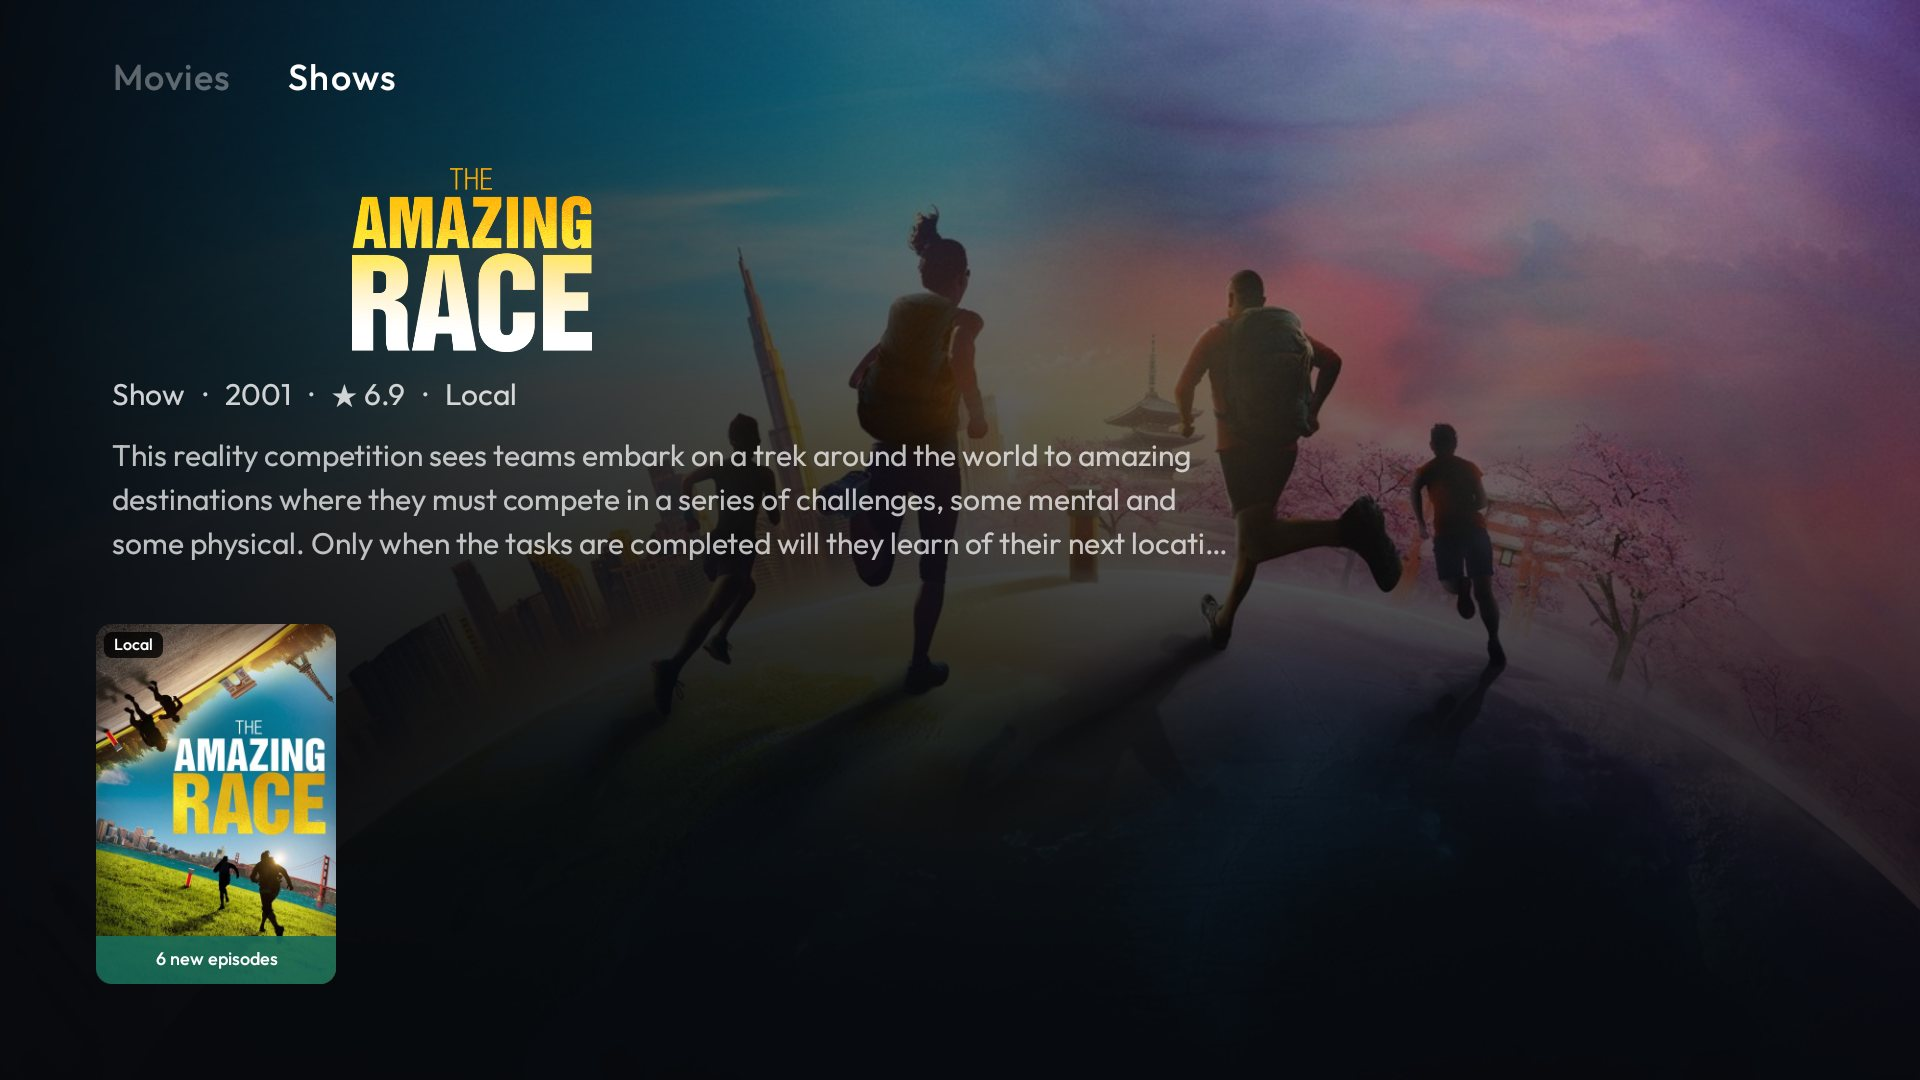
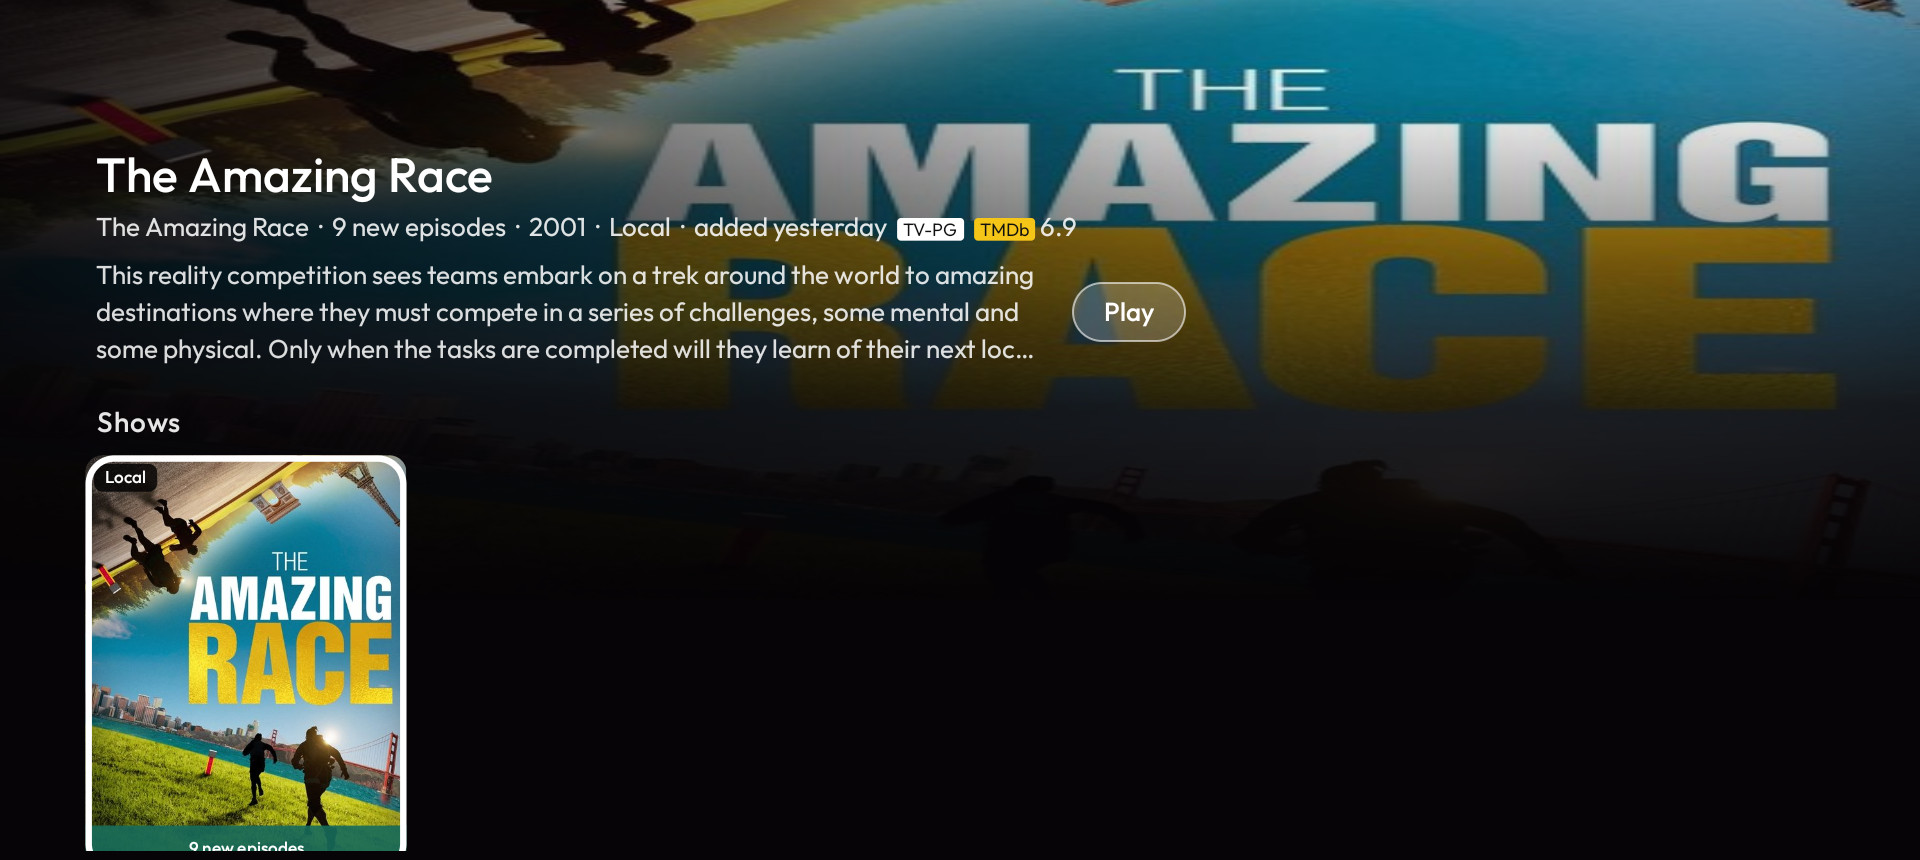
README: refresh MyTV dashboard and navigation

diff --git a/README.md b/README.md
@@ -11,18 +11,21 @@ nothing here is meant for upstream. The original project's README is kept for re
 ## What I added on top of upstream
 
 - **Cinematic Dashboard**: a full-screen TMDB backdrop with title, overview, year, runtime, US age rating and a
-  yellow `TMDb` score badge. The Recently Added movie rail sits below the showcase.
+  yellow `TMDb` score badge. A focusable **Play** pill opens the presented title, while the only row below the
+  spotlight is the configured priority-app dock.
 - **Shows**: a separate rail and show-detail screen with the show's artwork, overview, seasons and episode cards.
   Selecting Shows focuses its first card and pauses the movie spotlight.
-- **Auto-rotating movie spotlight**: it cross-fades every 10 seconds while Movies is idle. Entering Movies clears
-  focus so rotation runs; the next navigation key focuses the first movie. A focused movie also clears after 10
-  seconds of no D-pad activity.
-- **Drawer navigation**: Back or the rail's left edge opens Dashboard, TV, Movies, Shows, Apps, Beast, Home
-  Assist and Settings. The drawer highlights the current section and physical Home always returns to Dashboard.
+- **Auto-rotating movie spotlight**: Dashboard keeps the priority-app focus in place while the spotlight
+  cross-fades every 10 seconds. If the Play pill is focused instead, focus returns to the first priority app after
+  10 seconds. Movies is a separate poster rail with its own 10-second focus timeout.
+- **Drawer navigation**: Back or the rail's left edge opens Dashboard, TV, Movies, Shows, Apps, Home Assist and
+  Settings. The drawer highlights the current section and physical Home always returns to Dashboard.
 - **Apps page**: a standalone catalogue using the launcher's original TV banner tiles, app order, focus scale and
-  animation. It keeps the same left drawer and never changes the launcher app order.
-- **Beast and Home Assist**: both open from the drawer through the existing guarded WebView. The old Beast,
-  Home Assistant and Settings top pills are hidden.
+  animation. Pressing Down from the Dashboard priority dock fades into this same catalogue; Up from its first row
+  or Back restores the priority-app focus left behind. The drawer opens the same catalogue and keeps its existing
+  drawer return behavior.
+- **Home Assist**: opens from the drawer through the guarded WebView. The launcher no longer exposes a Mediarium
+  web panel or polls Home Assistant for camera/motion alerts.
 - **Series freshness**: a show moves up using its newest downloaded episode file's modification time, rather
   than the older date at which the series was first added.
 - **Weather widget** in place of the date next to the clock: current temperature, a condition icon and today's
@@ -32,19 +35,13 @@ nothing here is meant for upstream. The original project's README is kept for re
 ## What is Mediarium (Beast)?
 
 "Beast" is my nickname for **[Mediarium](https://mediarium.app/)**, the self-hosted media server running on my
-home network. It is the source behind the Dashboard rails and the Beast drawer destination, and nothing in it
-leaves the LAN.
-
-![Mediarium Dashboard: server CPU, memory and storage, and download status](docs/screenshots/beast-dashboard.jpg)
+home network. It is still the source behind the Dashboard's Local movies and Shows, but it has no TV-facing
+drawer destination or web panel. Nothing in it leaves the LAN.
 
 What it does:
 
 - **Keeps a download library.** Mediarium manages a library of downloaded movies and shows and serves the files
   over my home network. The launcher reads that library for the "Local" titles in the rail and plays them in mpv.
-- **Has its own web panel.** Mediarium runs a web dashboard (search, add, and manage downloads) on a port on the
-  server. The launcher's **Beast drawer item** opens that real panel full-screen in a locked-down WebView, so I can
-  drive it from the couch with the remote. The WebView only ever loads that one address; links to anywhere else
-  are refused, so it can't wander onto the open internet.
 - **Feeds the rail alongside IPTV.** The Movies & Shows rail merges Mediarium's downloads with the newest movies
   from my IPTV provider (read over its Xtream Codes API). When the same title exists in both, the download wins.
   TMDB fills in the wide backdrops, logos, ratings and overviews.
@@ -53,55 +50,45 @@ How the pieces fit:
 
 | Piece | Role |
 |-------|------|
-| Mediarium server ("Beast") | Self-hosted on the LAN: the download library, the file server, and the web panel |
-| Beast drawer item | Opens the Mediarium web panel full-screen in a guarded WebView |
+| Mediarium server ("Beast") | Self-hosted on the LAN: the download library and file server |
 | Dashboard rails | Mediarium downloads (mpv) + IPTV newest movies (Just Player), deduped, art from TMDB |
 | Apps page | Original CleanYourTV banner tiles in a standalone catalogue |
 
-A tour of the panel:
-
-![Mediarium Discover: filter bar and a Plex watchlist rail with Downloaded badges](docs/screenshots/beast-discover.jpg)
-
-*Discover* — browse and filter movies, shows and books (by genre, year, popularity), with "hide owned" and a
-Plex watchlist rail.
-
-![Mediarium Library: Movies/TV/Ebooks tabs with rich filters and download-status chips](docs/screenshots/beast-library.jpg)
-
-*Library* — everything already in the collection, filtered by codec, HDR, resolution, audio, subtitles and more,
-with per-status counts.
-
-![Mediarium Upcoming: a release calendar for the month](docs/screenshots/beast-upcoming.jpg)
-
-*Upcoming* — a release calendar (month, posters, backdrops or agenda) for titles on the way.
-
-![Mediarium Activity: download status tiles and a "waiting for a release" card](docs/screenshots/beast-activity.jpg)
-
-*Activity* — what is downloading, waiting, or finished, and why a title is still pending.
-
 The server addresses, the IPTV login and the TMDB key are **not** in this repo: they live in git-ignored
 `*_secrets.xml` files that a fresh clone recreates locally. See
-[`mytv/README.md`](mytv/README.md#secrets-files-git-ignored-recreate-on-a-new-pc) for the exact files and the
-[Beast page notes](mytv/README.md#beast-page-all-rooms) for how the panel behaves on the remote.
+[`mytv/README.md`](mytv/README.md#secrets-files-git-ignored-recreate-on-a-new-pc) for the exact files.
 
 ### Dashboard, Shows and the Apps page
 
-![Explore, Movies tab: a full-screen backdrop with the title logo, rating and overview over a poster rail](docs/screenshots/explore.jpg)
+![Movies: a full-screen backdrop with title, rating, overview and a poster rail](docs/screenshots/explore.jpg)
 
 The side drawer replaces the old Home / Explore tabs:
 
-- **Dashboard / Movies** uses the newest Local and IPTV movies. It enters unfocused so the large backdrop rotates
-  every 10 seconds; the first navigation key focuses the first card. A movie focus clears after 10 seconds idle.
+- **Dashboard** rotates the newest Local and IPTV movie spotlight over the full-screen backdrop while the
+  configured priority apps stay in the bottom dock. App focus does not pause or affect the spotlight. Up from the
+  apps focuses the **Play** pill, which opens the current title; if Play stays focused for 10 seconds, focus returns
+  to the first priority app. Down from an app fades into the full Apps catalogue. Up from its first row or Back
+  restores the priority app where the transition began.
+- **Movies** is separate from Dashboard and keeps the Recently Added poster rail. It enters with the first card
+  focused. After 10 seconds of inactivity, focus clears and the spotlight resumes rotating; the next D-pad key
+  restores movie focus.
 - **Shows** uses downloaded series and focuses the first card after the rail switch. It pauses the movie rotation.
   OK opens the show's season/episode page; Back returns to the previous screen.
 - **Apps** opens a separate catalogue rendered with the original launcher `AppAdapter` tiles and banner artwork.
   Its ordering is the launcher's configured ordering, not a new app sort.
+- **Home Assist** opens the configured Home Assistant dashboard. The launcher does not monitor cameras or show
+  motion alerts.
 - The full-screen backdrop, episode title, show title, year, runtime, age rating, `TMDb` score and overview follow
   the focused item.
 - **Age ratings** come from TMDB's US listing and appear next to the year, both here and on the Home showcase.
   Movies show their certificate (PG-13, R and so on) and series show their TV rating (TV-14, TV-MA and so on). A title with no US release on TMDB shows no age rating, so an unreleased film stays
   blank until TMDB lists one.
 
-![Explore, Shows tab: The Amazing Race backdrop with its logo over a rail of series](docs/screenshots/explore-shows.jpg)
+![Shows: The Amazing Race backdrop with a focused series rail](docs/screenshots/explore-shows.jpg)
+
+The same banner tiles appear in the full Apps catalogue:
+
+![All Apps catalogue reached with Down from the Dashboard priority row](docs/screenshots/apps.jpg)
 
 Focusing a show opens its episodes in order as wide stills, each with its own TMDB name and overview:
 
@@ -121,7 +108,9 @@ as applied.
 
 ## Common tasks
 
-Run from the repo root in PowerShell. The TV needs USB debugging and Network debugging switched on.
+Run from the repo root in PowerShell. The TV needs network ADB enabled. If it only offers Wireless debugging,
+pair with platform-tools `adb` and use the connection endpoint shown in Developer options; see the
+[native ADB guide](tools/native-adb.md).
 
 | To | Run |
 |----|-----|
@@ -142,8 +131,8 @@ the launcher's on every build, so the launcher's copy always shows the last room
 2. Back it up first with `backup.ps1`. Check `dumpsys wifi | grep -o 'cname=[^ ]*'` before disabling the setup
    wizard: if it owns the saved Wi-Fi network, disabling it drops the TV off Wi-Fi.
 3. Copy the office `config.xml` into the new room's folder and change what the hardware needs (a streaming box
-   has no Live TV app or HDMI inputs). The main navigation is now in the side drawer, so the old Home Assist,
-   Beast and Settings top pills stay hidden. Keep `weather_widget`, `explore_page` and `media_rail` on.
+   has no Live TV app or HDMI inputs). The main navigation is now in the side drawer, without TV-facing
+   Mediarium or camera-alert controls. Keep `weather_widget`, `explore_page` and `media_rail` on.
 4. Disable the debloat batches one at a time with a screenshot between them, setup wizard last.
 5. Install mpv and Just Player if the room uses the rail, then run `build-and-install.ps1`.
 6. Push the theme, reboot once, and compare `pm list packages -d` before and after.
@@ -151,15 +140,15 @@ the launcher's on every build, so the launcher's copy always shows the last room
 ## Build
 
 JDK 17 and the Android SDK are set up by `mytv\toolchain.ps1` into `%LOCALAPPDATA%\cleanyourtv-toolchain`. The
-release APK must stay under 786,432 bytes (the repo's size gate); the current build is about 644 KB.
+release APK must stay under 786,432 bytes (768 KiB); the current local build is about 640 KiB.
 
 ## Not in this repo
 
 These stay on my PC on purpose, so a fresh clone will not build the rail until they are recreated:
 
-- `launcher\app\src\main\res\values\iptv_secrets.xml`, `beast_secrets.xml`, `tmdb_secrets.xml`, `ha_secrets.xml`: the IPTV
-  login, the Beast server addresses and API key, the TMDB API key, and the Home Assistant token. The exact files and what each value means
-  are in [`mytv/README.md`](mytv/README.md#secrets-files-git-ignored-recreate-on-a-new-pc).
+- `launcher\app\src\main\res\values\iptv_secrets.xml`, `beast_secrets.xml`, `tmdb_secrets.xml`: the IPTV login,
+  the Mediarium server addresses and API key, and the TMDB API key. The exact files and what each value means are
+  in [`mytv/README.md`](mytv/README.md#secrets-files-git-ignored-recreate-on-a-new-pc).
 - `mytv\*\backups\`: package and settings snapshots of each TV, taken before any change.
 - `mytv\Office\beast_key.txt`: the Beast server API key.
 - `tools\adbkey`: the ADB key that the TVs authorised.

diff --git a/mytv/README.md b/mytv/README.md
@@ -42,8 +42,8 @@ copied over the launcher's on every build. Then run `build-and-install.ps1` for 
 - `columns`: dock slots and grid columns, 4 to 7. Tiles shrink from 5 up.
 - `show_inputs_pill`: the Inputs button in the top bar.
 - `show_network_pill`: the Wi-Fi button in the top bar.
-- **House rule: the media UI uses the left drawer, not header pills.** Dashboard, TV, Movies, Shows, Apps, Beast,
-  Home Assist and Settings live in that menu. The old Home Assist, Beast and Settings top pills are hidden.
+- **House rule: the media UI uses the left drawer, not header pills.** Dashboard, TV, Movies, Shows, Apps, Home
+  Assist and Settings live in that menu.
   `show_network_pill` and `show_inputs_pill` are also `false` in all three rooms. The remote's Input button still
   opens the Inputs list on a TV that has inputs.
 - `weather_widget`: replaces the date next to the clock with a weather widget: current temperature (Fahrenheit),
@@ -56,6 +56,8 @@ copied over the launcher's on every build. Then run `build-and-install.ps1` for 
   longer shown; the left drawer chooses Dashboard, Movies, Shows and Apps directly. Movies use the newest Local
   and IPTV titles; Shows use the downloaded series. Focusing a show opens its episodes in order as wide stills,
   each with its own TMDB name and overview. On in all three rooms. Needs `media_rail` on.
+  Dashboard keeps only the configured priority apps in its lower dock; Down opens the full Apps catalogue, and
+  Up from that catalogue's first row or Back restores the app that was focused on Dashboard.
   Episode stills and backdrops are pulled at TMDB `original` size for a crisp 1080p banner (posters stay `w500`).
   A just-aired episode whose still TMDB has not yet promoted into the season payload is filled from the per-episode
   images endpoint; an episode with no still at all falls back to the show's wide TMDB backdrop, never the stretched
@@ -68,14 +70,9 @@ copied over the launcher's on every build. Then run `build-and-install.ps1` for 
   nothing coming up, it reads "No upcoming events". Refreshes every 30 minutes while Home is showing. On in all
   three rooms; the room config must define it (`true`/`false`) or the build fails, as with `weather_widget`.
   Like the others, the room config must define it or that room's build fails.
-- `beast_page`: enables the Beast destination in the left drawer. On in all three rooms; see below.
-- `beast_url`: the address Beast opens. Empty hides the button even when `beast_page` is true.
-- `ha_page`: enables Home Assist in the left drawer. It opens the Home Assistant dashboard at `ha_url` full screen, in the same
-  page Beast uses (arrows move a pointer, OK clicks). On in all three rooms. `ha_url` empty hides the pill. The
-  host must be allowed as cleartext in `network_security_config.xml`, which it already is as the Beast server's host.
-- The Home Assistant motion warning (`ha_alert`, the watched sensors and the label) is in
-  `launcher\app\src\main\res\values\ha_alert.xml`, shared by every room. It needs the token in `ha_secrets.xml`
-  (below). Without the token the pill is a plain house button.
+- `ha_page`: enables Home Assist in the left drawer. It opens the Home Assistant dashboard at `ha_url` full screen
+  (arrows move a pointer, OK clicks). The host must be allowed as cleartext in `network_security_config.xml`.
+  MyTV does not hold a Home Assistant token, poll camera entities, or display motion alerts.
 
 Package names: TiviMate `ar.tvplayer.tv`, Netflix `com.netflix.ninja`, YouTube `com.google.android.youtube.tv`,
 Prime Video `com.amazon.amazonvideo.livingroom`, Disney+ `com.disney.disneyplus`, Hulu `com.hulu.livingroomplus`,
@@ -101,10 +98,8 @@ Hisense SmartTV 4K (lushan), Google TV 12, firmware STT2.230929.001.091. Set up 
 - **Inputs menu**: HDMI 1-3 and Live TV (`com.vt.tv.tvcenter`, hidden from the grid).
 - **Theme**: `themes\christmas` (Santa's sleigh wallpaper, glass dock). Screensaver: the stock Google TV
   backdrop.
-- **Beast drawer item**: on, opening the Mediarium server panel at `http://xxx.xxx.xxx.15:8264/`. See the Beast page
-  section below; it is on in all three rooms.
 - **Weather widget**: on, in place of the date next to the clock (current temperature, condition icon, today's
-  high/low). The Wi-Fi and Inputs pills are off (house rule above); Beast and Settings stay. Verified on screen
+  high/low). The Wi-Fi and Inputs pills are off (house rule above). Verified on screen
   2026-11-04 against Open-Meteo's own answer for the same place (51°F shown vs. 50.5°F/cloud cover 98% from the
   API at that moment); a second source (wttr.in) said 55°F at the same time, so don't expect sources to agree
   exactly. See `weather_widget` above.
@@ -144,7 +139,8 @@ onn 4K Pro Streaming Device (jarvis2), Google TV 14, build URO3.260203.035.A1.15
   `install-write` / `install-commit`.
 - **Hidden from the grid**: Play Games (a stub that opens the Play Store), YouTube Music and Just Player
   (the Movies & Shows rail opens it for IPTV titles).
-- **Beast drawer item and Movies & Shows rail**: on, as in the other two rooms. Playing a "Local" download needs mpv
+- **Movies & Shows rail**: on, as in the other two rooms, using the Mediarium backend without a TV-facing panel.
+  Playing a "Local" download needs mpv
   (`is.xyz.mpv`), which is **not installed on this box yet**; Just Player (IPTV titles) is.
 - **No Inputs button**: a streaming box has no HDMI inputs or tuner, so `show_inputs_pill` is off and
   `live_tv_package` is empty.
@@ -160,8 +156,8 @@ onn. Streaming Device 4K pro (SNA), Google TV 14, build URO4.260304.011.B1.15051
 2026-11-03 to match the office, minus the Hisense-only parts (no HDMI inputs or tuner on a streaming box).
 
 - **Dock (5)**: TiviMate, Kick, Netflix, YouTube, Apple TV — the office's dock, except the office now has
-  SmartTube where this TV still has YouTube. No theme;
-  Beast drawer item and the Dashboard media rails (`media_rail` on, `iptv_rail` off) are on, 5 columns. Its
+  SmartTube where this TV still has YouTube. No theme; the Dashboard media rails (`media_rail` on,
+  `iptv_rail` off) are on, 5 columns. Its
   `config.xml` differs from the office's only in `live_tv_package` (empty), `hidden_apps` (empty) and
   `show_inputs_pill` (false) — the parts that depend on this being a streaming box with no HDMI inputs or tuner.
 - **13 packages disabled** (never uninstalled), listed in [`LivingRoom TV\debloat.txt`](LivingRoom%20TV/debloat.txt),
@@ -225,18 +221,6 @@ Without it the rail still works, with posters instead of backdrops and an empty 
 </resources>
 ```
 
-`ha_secrets.xml`: a Home Assistant long-lived access token, for the Home Assist motion connection. Create it in
-Home Assistant under your profile, Security, Long-lived access tokens, named `MyTV`, and paste it between the
-`ha_token` tags. It is built into the APK, so rebuild every room after changing it, and delete the token in Home
-Assistant if it leaks.
-
-```xml
-<?xml version="1.0" encoding="utf-8"?>
-<resources>
-    <string name="ha_token" translatable="false">LONG_LIVED_TOKEN</string>
-</resources>
-```
-
 The rail turns on only when at least one of Beast or IPTV is fully set. Check what is missing with
 `git status --ignored launcher\app\src\main\res\values`.
 
@@ -272,34 +256,14 @@ the row shows at once. The account allows 5 streams at once.
 - VLC was tried first and removed: given a second movie while the first was still open, even in the background,
   it showed a black screen or closed.
 
-## Beast page (all rooms)
+## Home Assist page (all rooms)
 
-A **Beast** item in the left drawer opens the [Mediarium](https://mediarium.app/) media-server
-panel full-screen at `http://xxx.xxx.xxx.15:8264/`. It is the real web panel in a locked-down WebView, so
-everything the panel can do (search, add, manage downloads) works from the couch.
+The **Home Assist** drawer item opens the configured Home Assistant dashboard in a locked-down WebView. The remote
+drives an on-screen pointer: arrows move, OK clicks, and Back follows web history before leaving the page.
 
-- **Sign in once.** The first time, sign in with the on-screen keyboard. The session cookie is kept, so later
-  visits open already signed in. If it ever logs you out, just sign in again.
-- **Pointer, not focus.** The panel is a mouse-and-touch website, so the remote drives an on-screen arrow
-  cursor instead of jumping between fields:
-  - Arrows move the cursor; hold a direction and it speeds up.
-  - OK clicks where it points (hold OK for a long-press).
-  - Push the cursor against a screen edge to scroll what is under it.
-  - Back goes back inside the panel; Back again leaves to Home.
-- **Stays on the panel.** Only `beast_url`'s own address loads. A link to anywhere else is refused, so the page
-  can't wander onto the open internet.
-
-Turn it on or off per room in `mytv\<room>\config.xml`, then rebuild that room:
-
-- `beast_page` (`true`/`false`): enables Beast in the drawer. `true` in all three rooms.
-- `beast_url`: the address it opens. Empty hides the button even when `beast_page` is true.
-
-Because the panel is served over plain HTTP, the host `xxx.xxx.xxx.15` is allowed as a cleartext exception in
-`launcher\app\src\main\res\xml\network_security_config.xml`. If the Beast server ever moves, change both
-`beast_url` and that host, then rebuild. Nothing else on the launcher is allowed to use plain HTTP.
-
-The server's API key file `Office\beast_key.txt` (git-ignored) is **not** used by this page — the
-WebView signs in with the web panel instead. It can be kept for other tooling or deleted.
+The launcher does not embed a Home Assistant token, watch camera entities, keep a live event-stream connection, or
+show a motion popup/pill. Camera casts and other Home Assistant automations remain external to MyTV and can be
+revisited independently.
 
 ## Tried and removed: Plex row
 
